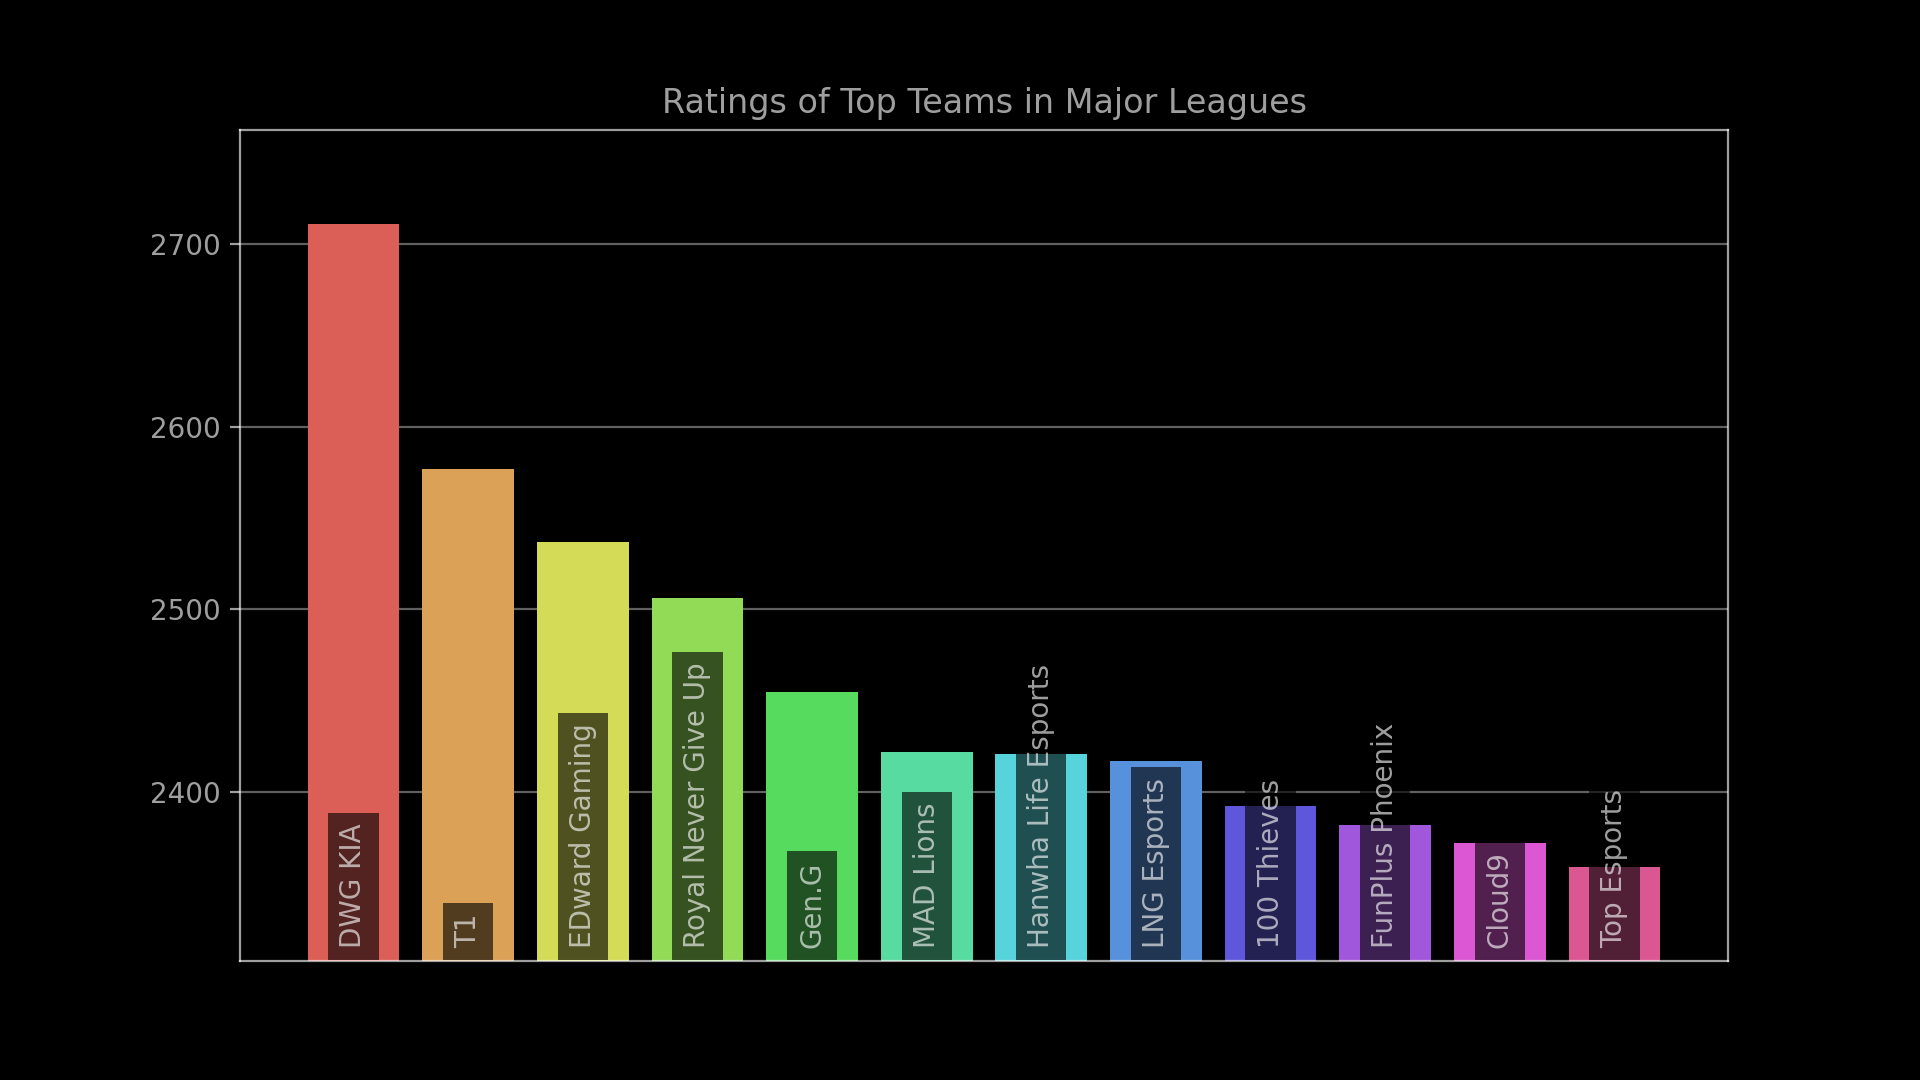
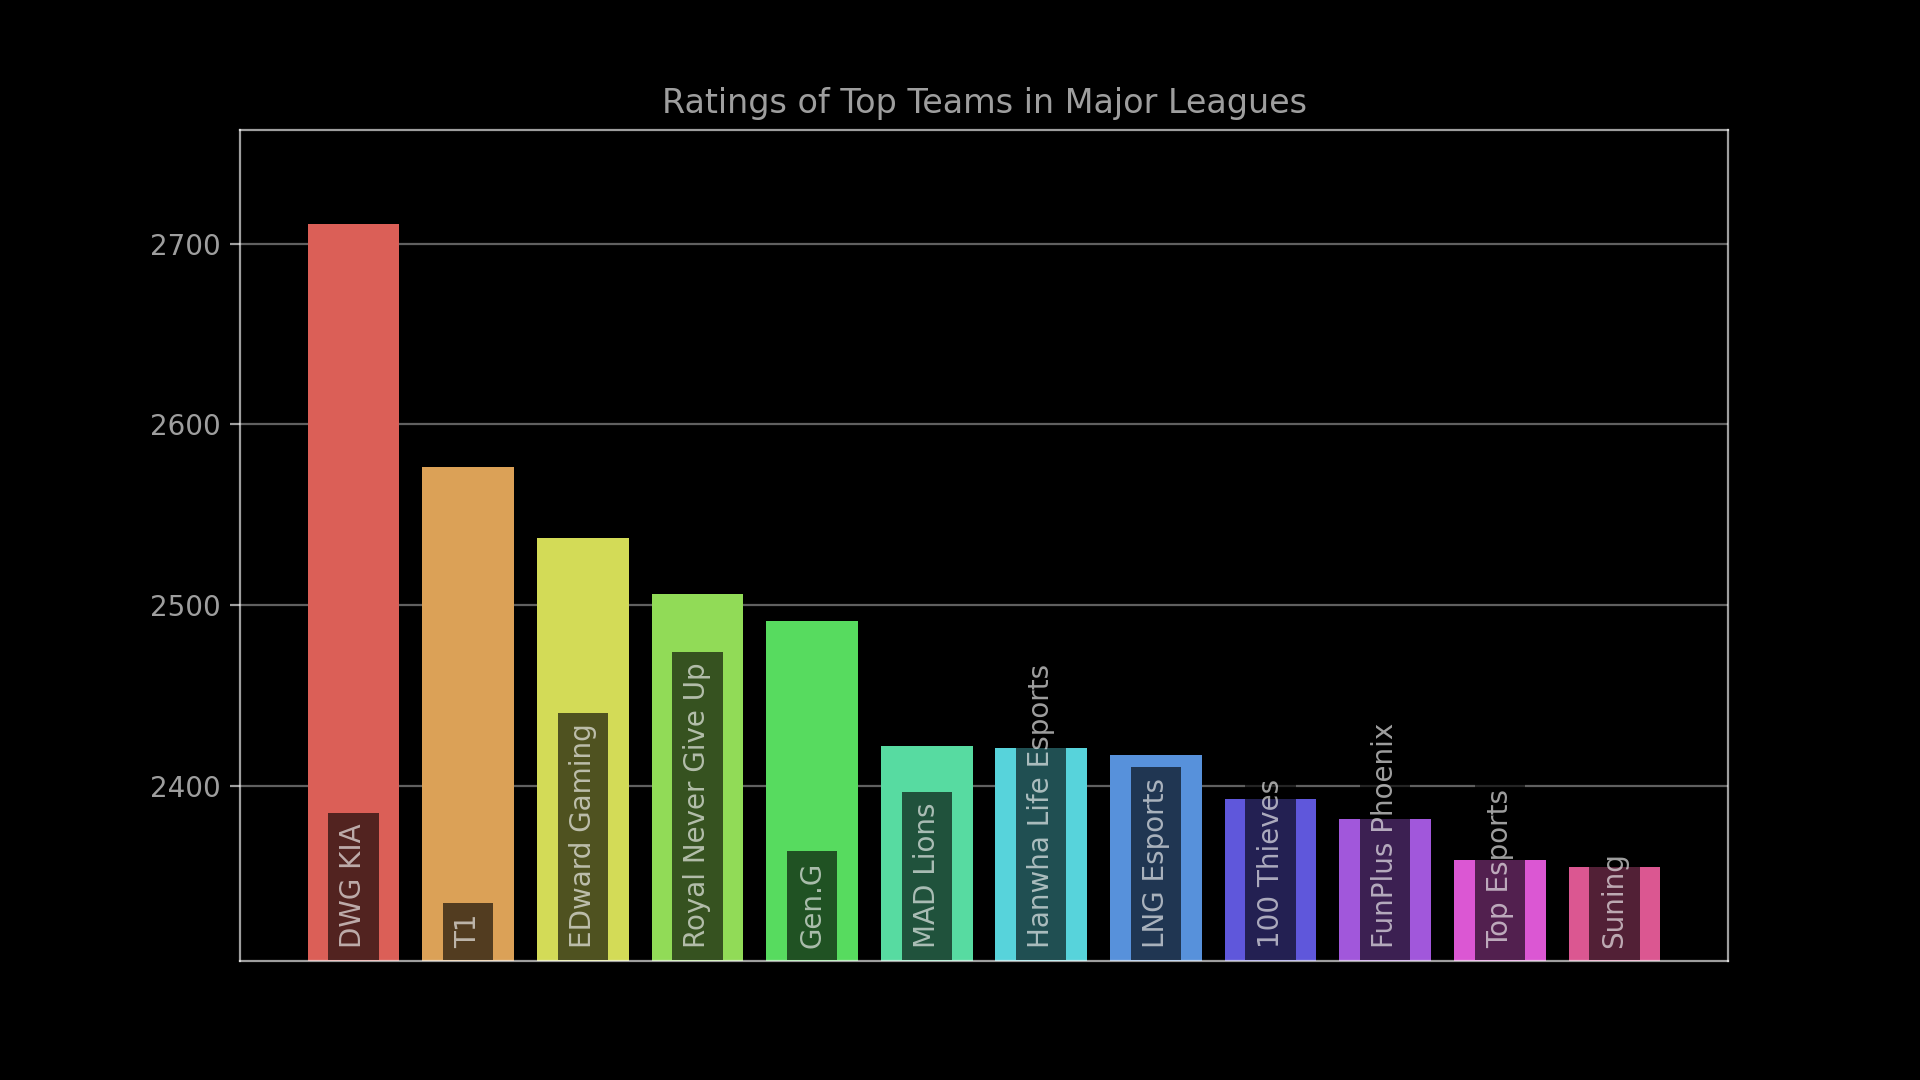
Update rating charts for 2021-10-25 15:00:00.

diff --git a/index.html b/index.html
@@ -80,18 +80,18 @@
             <tr><td style="text-align: right">2</td><td class="name">T1</td><td class="league" style="text-align: center">LCK</td><td class="rating" style="text-align: center">2576.6</td><td class="diff" style="text-align: center; white-space: nowrap"><span style="color: #4CAF50">&plus;50.6</span></td></tr>
             <tr><td style="text-align: right">3</td><td class="name">EDward Gaming</td><td class="league" style="text-align: center">LPL</td><td class="rating" style="text-align: center">2537.2</td><td class="diff" style="text-align: center; white-space: nowrap"><span style="color: #4CAF50">&plus;48.7</span></td></tr>
             <tr><td style="text-align: right">4</td><td class="name">Royal Never Give Up</td><td class="league" style="text-align: center">LPL</td><td class="rating" style="text-align: center">2506.0</td><td class="diff" style="text-align: center; white-space: nowrap"><span style="color: #F44336">&minus;47.4</span></td></tr>
-            <tr><td style="text-align: right">5</td><td class="name">PSG Talon</td><td class="league" style="text-align: center">PCS</td><td class="rating" style="text-align: center">2461.9</td><td class="diff" style="text-align: center; white-space: nowrap"></td></tr>
-            <tr><td style="text-align: right">6</td><td class="name">Gen.G</td><td class="league" style="text-align: center">LCK</td><td class="rating" style="text-align: center">2455.0</td><td class="diff" style="text-align: center; white-space: nowrap"><span style="color: #4CAF50">&plus;71.2</span></td></tr>
+            <tr><td style="text-align: right">5</td><td class="name">Gen.G</td><td class="league" style="text-align: center">LCK</td><td class="rating" style="text-align: center">2491.2</td><td class="diff" style="text-align: center; white-space: nowrap"><span style="color: #4CAF50">&plus;109.0</span></td></tr>
+            <tr><td style="text-align: right">6</td><td class="name">PSG Talon</td><td class="league" style="text-align: center">PCS</td><td class="rating" style="text-align: center">2461.9</td><td class="diff" style="text-align: center; white-space: nowrap"></td></tr>
             <tr><td style="text-align: right">7</td><td class="name">MAD Lions</td><td class="league" style="text-align: center">LEC</td><td class="rating" style="text-align: center">2421.9</td><td class="diff" style="text-align: center; white-space: nowrap"><span style="color: #F44336">&minus;23.1</span></td></tr>
             <tr><td style="text-align: right">8</td><td class="name">Hanwha Life Esports</td><td class="league" style="text-align: center">LCK</td><td class="rating" style="text-align: center">2421.0</td><td class="diff" style="text-align: center; white-space: nowrap"><span style="color: #F44336">&minus;37.8</span></td></tr>
             <tr><td style="text-align: right">9</td><td class="name">LNG Esports</td><td class="league" style="text-align: center">LPL</td><td class="rating" style="text-align: center">2416.7</td><td class="diff" style="text-align: center; white-space: nowrap"><span style="color: #F44336">&minus;34.0</span></td></tr>
             <tr><td style="text-align: right">10</td><td class="name">100 Thieves</td><td class="league" style="text-align: center">LCS</td><td class="rating" style="text-align: center">2392.5</td><td class="diff" style="text-align: center; white-space: nowrap"></td></tr>
             <tr><td style="text-align: right">11</td><td class="name">FunPlus Phoenix</td><td class="league" style="text-align: center">LPL</td><td class="rating" style="text-align: center">2381.7</td><td class="diff" style="text-align: center; white-space: nowrap"></td></tr>
-            <tr><td style="text-align: right">12</td><td class="name">Cloud9</td><td class="league" style="text-align: center">LCS</td><td class="rating" style="text-align: center">2372.2</td><td class="diff" style="text-align: center; white-space: nowrap"><span style="color: #F44336">&minus;9.8</span></td></tr>
-            <tr><td style="text-align: right">13</td><td class="name">Top Esports</td><td class="league" style="text-align: center">LPL</td><td class="rating" style="text-align: center">2358.8</td><td class="diff" style="text-align: center; white-space: nowrap"></td></tr>
-            <tr><td style="text-align: right">14</td><td class="name">Suning</td><td class="league" style="text-align: center">LPL</td><td class="rating" style="text-align: center">2354.8</td><td class="diff" style="text-align: center; white-space: nowrap"></td></tr>
+            <tr><td style="text-align: right">12</td><td class="name">Top Esports</td><td class="league" style="text-align: center">LPL</td><td class="rating" style="text-align: center">2358.8</td><td class="diff" style="text-align: center; white-space: nowrap"></td></tr>
+            <tr><td style="text-align: right">13</td><td class="name">Suning</td><td class="league" style="text-align: center">LPL</td><td class="rating" style="text-align: center">2354.8</td><td class="diff" style="text-align: center; white-space: nowrap"></td></tr>
+            <tr><td style="text-align: right">14</td><td class="name">Cloud9</td><td class="league" style="text-align: center">LCS</td><td class="rating" style="text-align: center">2340.2</td><td class="diff" style="text-align: center; white-space: nowrap"><span style="color: #F44336">&minus;41.8</span></td></tr>
             <tr><td style="text-align: right">15</td><td class="name">Team WE</td><td class="league" style="text-align: center">LPL</td><td class="rating" style="text-align: center">2340.1</td><td class="diff" style="text-align: center; white-space: nowrap"></td></tr>
-            <tr><td style="text-align: right">16</td><td class="name">Team Liquid</td><td class="league" style="text-align: center">LCS</td><td class="rating" style="text-align: center">2338.4</td><td class="diff" style="text-align: center; white-space: nowrap"><span style="color: #F44336">&minus;10.0</span></td></tr>
+            <tr><td style="text-align: right">16</td><td class="name">Team Liquid</td><td class="league" style="text-align: center">LCS</td><td class="rating" style="text-align: center">2338.4</td><td class="diff" style="text-align: center; white-space: nowrap"><span style="color: #F44336">&minus;12.9</span></td></tr>
             <tr><td style="text-align: right">17</td><td class="name">Rogue </td><td class="league" style="text-align: center">LEC</td><td class="rating" style="text-align: center">2330.7</td><td class="diff" style="text-align: center; white-space: nowrap"></td></tr>
             <tr><td style="text-align: right">18</td><td class="name">Bilibili Gaming</td><td class="league" style="text-align: center">LPL</td><td class="rating" style="text-align: center">2318.9</td><td class="diff" style="text-align: center; white-space: nowrap"></td></tr>
             <tr><td style="text-align: right">19</td><td class="name">G2 Esports</td><td class="league" style="text-align: center">LEC</td><td class="rating" style="text-align: center">2313.3</td><td class="diff" style="text-align: center; white-space: nowrap"></td></tr>

diff --git a/assets/js/chart-config.js b/assets/js/chart-config.js
@@ -3,10 +3,10 @@ const MONTH_ABBREVIATIONS = ["Jan", "Feb", "Mar", "Apr", "May", "Jun", "Jul", "A
 const topChartConfig = {
     type: "bar",
     data: {
-        labels: ['DWG KIA', 'T1', 'EDward Gaming', 'Royal Never Give Up', 'Gen.G', 'MAD Lions', 'Hanwha Life Esports', 'LNG Esports', '100 Thieves', 'FunPlus Phoenix', 'Cloud9', 'Top Esports'],
+        labels: ['DWG KIA', 'T1', 'EDward Gaming', 'Royal Never Give Up', 'Gen.G', 'MAD Lions', 'Hanwha Life Esports', 'LNG Esports', '100 Thieves', 'FunPlus Phoenix', 'Top Esports', 'Suning'],
         datasets: [{
             backgroundColor: ['#dc5f57', '#dca157', '#d4dc57', '#91dc57', '#57dc5f', '#57dca1', '#57d4dc', '#5791dc', '#5f57dc', '#a157dc', '#dc57d4', '#dc5791'],
-            data: [2711.235260701158, 2576.62599757894, 2537.1619238291323, 2506.04743316462, 2454.968656448114, 2421.8522206488988, 2421.000902777424, 2416.7170819264643, 2392.5403855259237, 2381.7010883286844, 2372.1804870538726, 2358.8275642289427],
+            data: [2711.235260701158, 2576.62599757894, 2537.1619238291323, 2506.04743316462, 2491.2331328192636, 2421.8522206488988, 2421.000902777424, 2416.7170819264643, 2392.5403855259237, 2381.7010883286844, 2358.8275642289427, 2354.8123246379455],
             label: "Rating Points"
         }]
     },
@@ -35,7 +35,7 @@ const topChartConfig = {
             },
             y: {
                 max: 2763,
-                min: 2307
+                min: 2303
             }
         }
     }

diff --git a/README.md b/README.md
@@ -49,15 +49,15 @@ confidence interval of the rating.
 | 2 | T1 | 2576.6 | 69.1 |
 | 3 | EDward Gaming | 2537.2 | 65.9 |
 | 4 | Royal Never Give Up | 2506.0 | 65.0 |
-| 5 | Gen.G | 2455.0 | 71.7 |
+| 5 | Gen.G | 2491.2 | 67.1 |
 | 6 | MAD Lions | 2421.9 | 69.1 |
 | 7 | Hanwha Life Esports | 2421.0 | 60.1 |
 | 8 | LNG Esports | 2416.7 | 65.4 |
 | 9 | 100 Thieves | 2392.5 | 74.4 |
 | 10 | FunPlus Phoenix | 2381.7 | 72.5 |
-| 11 | Cloud9 | 2372.2 | 66.1 |
-| 12 | Top Esports | 2358.8 | 71.2 |
-| 13 | Suning | 2354.8 | 69.8 |
+| 11 | Top Esports | 2358.8 | 71.2 |
+| 12 | Suning | 2354.8 | 69.8 |
+| 13 | Cloud9 | 2340.2 | 62.4 |
 | 14 | Team WE | 2340.1 | 61.8 |
 | 15 | Team Liquid | 2338.4 | 72.4 |
 | 16 | Rogue (European Team) | 2330.7 | 73.6 |
